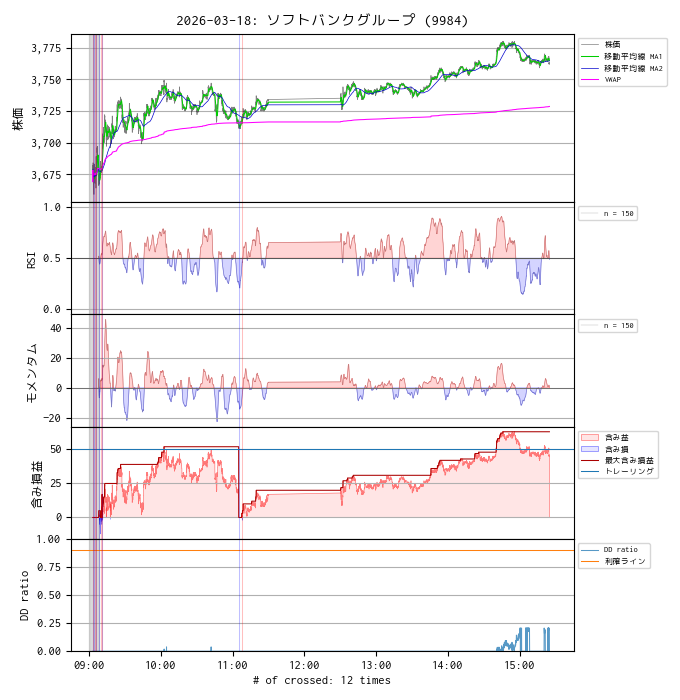
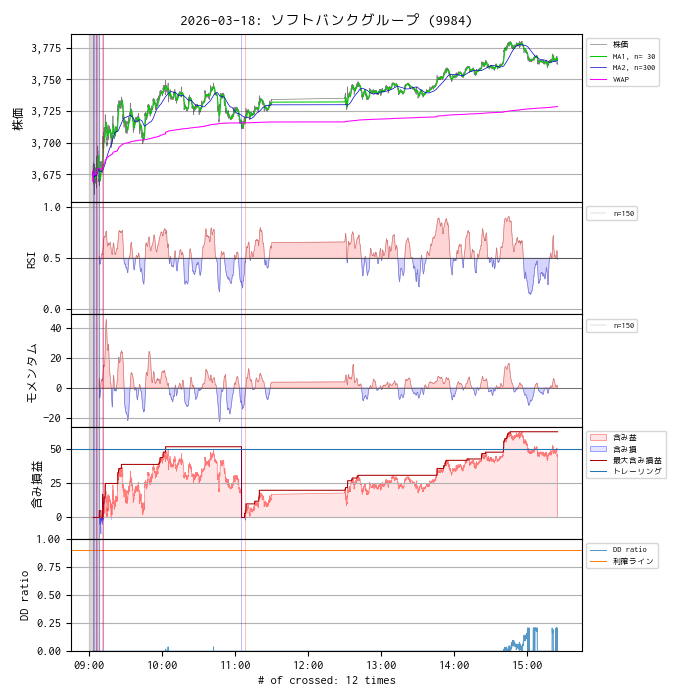
update

diff --git a/funcs/plot.py b/funcs/plot.py
@@ -480,10 +480,10 @@ def plot_price_vwap(ax: plt.Axes, df: DataFrame, title: str, dict_ts: dict[str, 
 
     # 株価と VWAP
     ax.plot(df["price"], linewidth=0.5, color="black", alpha=0.5, label="株価")
-    ax.plot(df["ma1"], linewidth=0.75, color="#0c0", label="移動平均線 MA1")
+    ax.plot(df["ma1"], linewidth=0.75, color="#0c0", label="MA1, n= 30")
     # 評価用の移動平均 MA2
     df["ma2"] = df["price"].rolling(300, min_periods=1).mean()
-    ax.plot(df["ma2"], linewidth=0.5, color="#00c", label="移動平均線 MA2")
+    ax.plot(df["ma2"], linewidth=0.5, color="#00c", label="MA2, n=300")
     ax.plot(df["vwap"], linewidth=0.75, color="#f0f", label="VWAP")
 
     ax.set_ylabel("株価")
@@ -496,7 +496,7 @@ def plot_momentum(ax: plt.Axes, df: DataFrame, dict_setting: dict[str, Any]):
     n = 150
     mom = Momentum(n)
     df["momentum"] = [mom.update(v) for v in df["ma1"]]
-    ax.plot(df["momentum"], color="#888", linewidth=0.25, alpha=0.75, label=f"n = {n:d}")
+    ax.plot(df["momentum"], color="#888", linewidth=0.25, alpha=0.75, label=f"n={n:d}")
     x = df.index
     y = df["momentum"]
     ax.fill_between(x, 0, y, where=(0 < y), fc="#faa", ec="#f00", alpha=0.5, lw=0.5)
@@ -509,7 +509,7 @@ def plot_momentum(ax: plt.Axes, df: DataFrame, dict_setting: dict[str, Any]):
 
 
 def plot_rsi(ax: plt.Axes, df: DataFrame, dict_setting: dict[str, Any]):
-    ax.plot(df["rsi"], color="#888", linewidth=0.25, alpha=0.75, label=f"n = {dict_setting["PERIOD_RSI"]}")
+    ax.plot(df["rsi"], color="#888", linewidth=0.25, alpha=0.75, label=f"n={dict_setting["PERIOD_RSI"]}")
     x = df.index
     y = df["rsi"]
     ax.fill_between(x, 0.5, y, where=(0.5 < y), fc="#faa", ec="#f00", alpha=0.5, lw=0.5)
